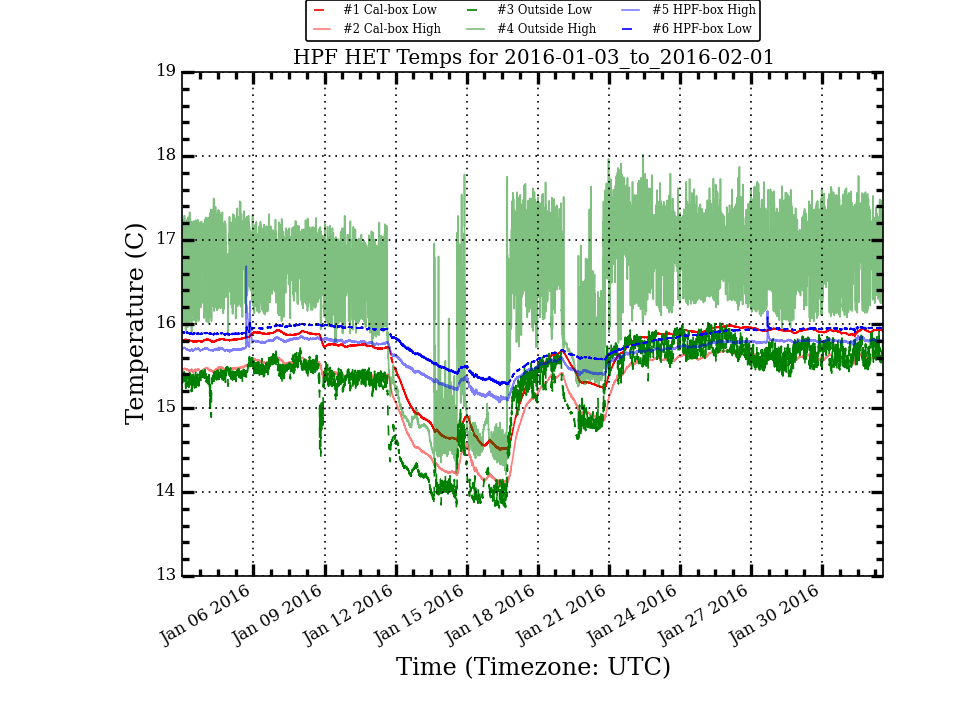
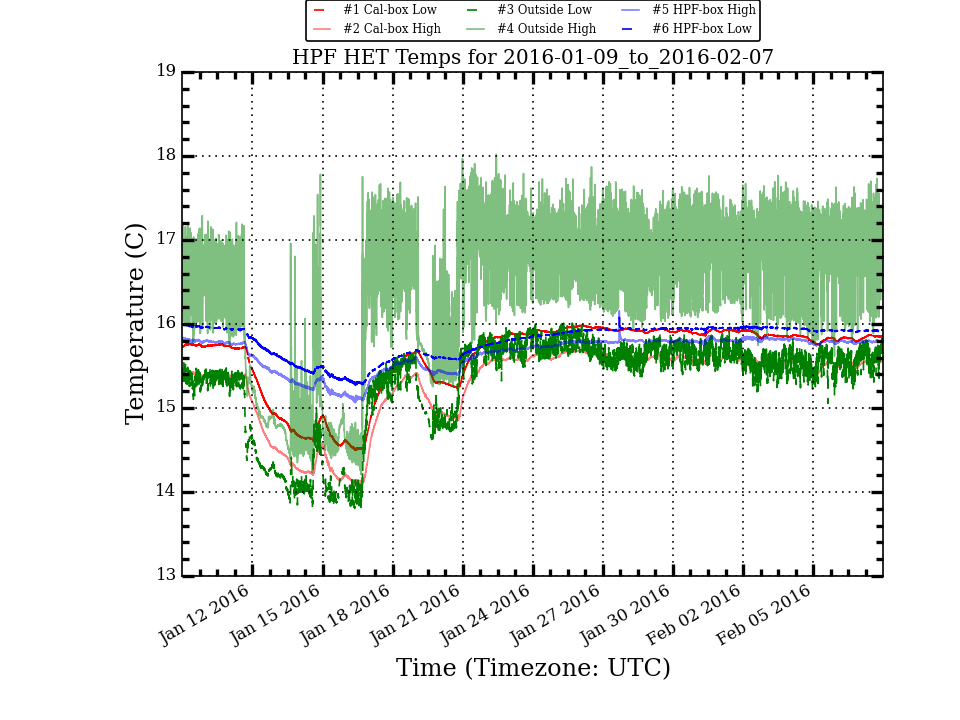
Update HPF Temp Plots

diff --git a/research/hpf_temps/plots/LakeShoreLogTotal_month_stats.html b/research/hpf_temps/plots/LakeShoreLogTotal_month_stats.html
@@ -10,54 +10,54 @@
  </TR>
  <TR>
   <TD>Cal_Low</TD>
-  <TD>15.607</TD>
-  <TD>0.432</TD>
-  <TD>15.811</TD>
+  <TD>15.610</TD>
+  <TD>0.430</TD>
+  <TD>15.831</TD>
   <TD>15.984</TD>
   <TD>14.496</TD>
   <TD>1.488</TD>
  </TR>
  <TR>
   <TD>Cal_High</TD>
-  <TD>15.277</TD>
-  <TD>0.458</TD>
-  <TD>15.470</TD>
+  <TD>15.288</TD>
+  <TD>0.459</TD>
+  <TD>15.533</TD>
   <TD>15.688</TD>
   <TD>14.080</TD>
   <TD>1.608</TD>
  </TR>
  <TR>
   <TD>Out_Low</TD>
-  <TD>15.264</TD>
-  <TD>0.558</TD>
-  <TD>15.454</TD>
+  <TD>15.291</TD>
+  <TD>0.564</TD>
+  <TD>15.515</TD>
   <TD>16.014</TD>
   <TD>13.793</TD>
   <TD>2.221</TD>
  </TR>
  <TR>
   <TD>Out_High</TD>
-  <TD>16.334</TD>
-  <TD>0.816</TD>
-  <TD>16.556</TD>
+  <TD>16.367</TD>
+  <TD>0.837</TD>
+  <TD>16.597</TD>
   <TD>18.017</TD>
   <TD>14.206</TD>
   <TD>3.811</TD>
  </TR>
  <TR>
   <TD>HPF_High</TD>
-  <TD>15.643</TD>
-  <TD>0.203</TD>
-  <TD>15.720</TD>
-  <TD>16.688</TD>
+  <TD>15.652</TD>
+  <TD>0.205</TD>
+  <TD>15.773</TD>
+  <TD>16.156</TD>
   <TD>15.065</TD>
-  <TD>1.623</TD>
+  <TD>1.091</TD>
  </TR>
  <TR>
   <TD>HPF_Low</TD>
-  <TD>15.795</TD>
-  <TD>0.196</TD>
-  <TD>15.887</TD>
+  <TD>15.797</TD>
+  <TD>0.195</TD>
+  <TD>15.918</TD>
   <TD>16.080</TD>
   <TD>15.269</TD>
   <TD>0.811</TD>
